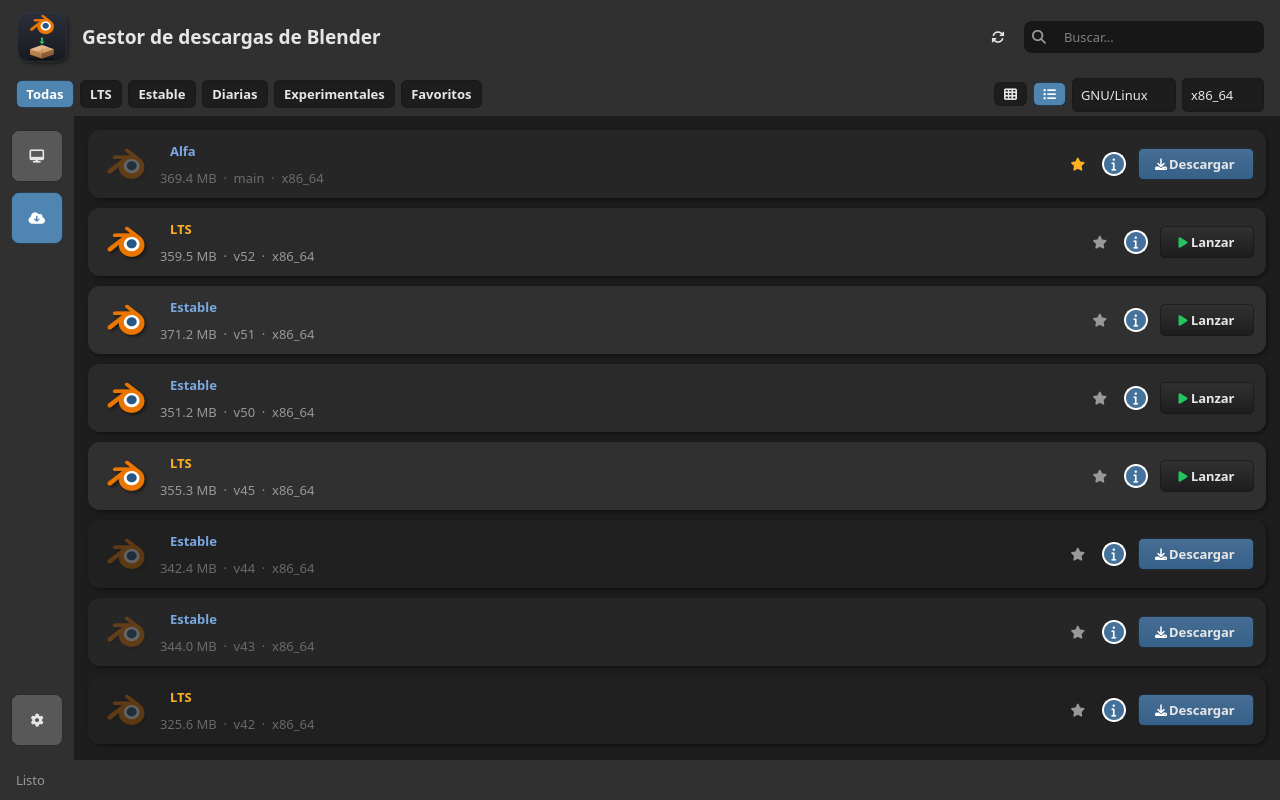
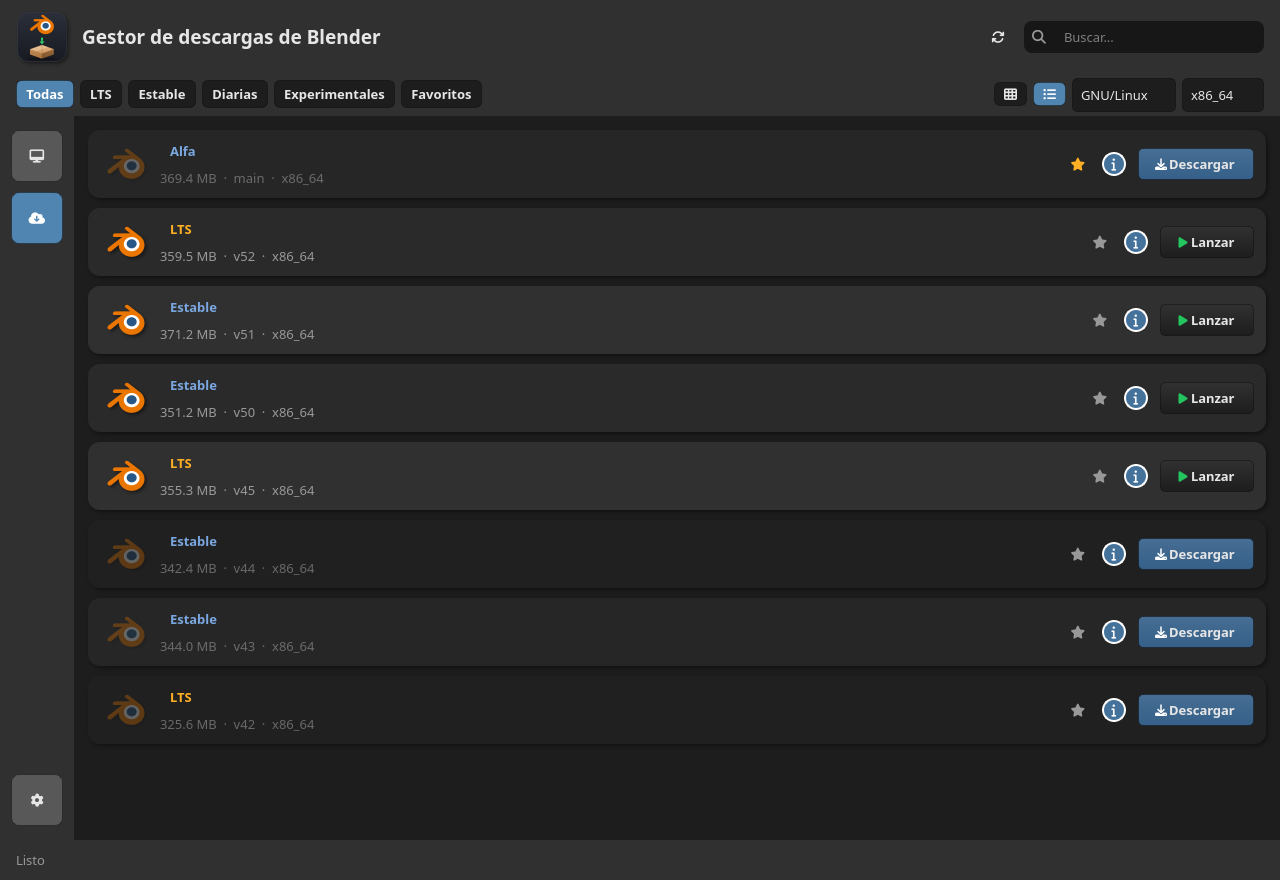
docs: capturas a 1280x880 para que la tienda no corte la ultima fila
Con 800 px la rejilla de la tienda recortaba la fila de abajo (tiene mas
filas que la lista de instaladas). Ahora ambas capturas comparten 1280x880 y
salen todos los logos completos.

diff --git a/packaging/capture_docs.py b/packaging/capture_docs.py
@@ -2,11 +2,11 @@
 
 Uso:  QT_QPA_PLATFORM=offscreen .venv/bin/python packaging/capture_docs.py
 
-Las capturas del README son 1280x800, en español y con la barra de filtros
+Las capturas del README son 1280x880, en español y con la barra de filtros
 visible. El alto es holgado a propósito: con 624 px la última fila de tarjetas
-salía cortada por abajo. Se hacen con el plugin offscreen de Qt, así que no hace
-falta servidor gráfico (a diferencia del Kivy antiguo, que necesitaba ventana
-real).
+de la tienda salía cortada por abajo (la rejilla tiene más filas que la lista).
+Se hacen con el plugin offscreen de Qt, así que no hace falta servidor gráfico
+(a diferencia del Kivy antiguo, que necesitaba ventana real).
 """
 
 import sys
@@ -14,7 +14,7 @@ import tempfile
 from pathlib import Path
 
 OUT = Path(__file__).resolve().parent.parent / "docs" / "img"
-WIDTH, HEIGHT = 1280, 800
+WIDTH, HEIGHT = 1280, 880
 
 SRC = Path(__file__).resolve().parent.parent / "src"
 if str(SRC) not in sys.path:
